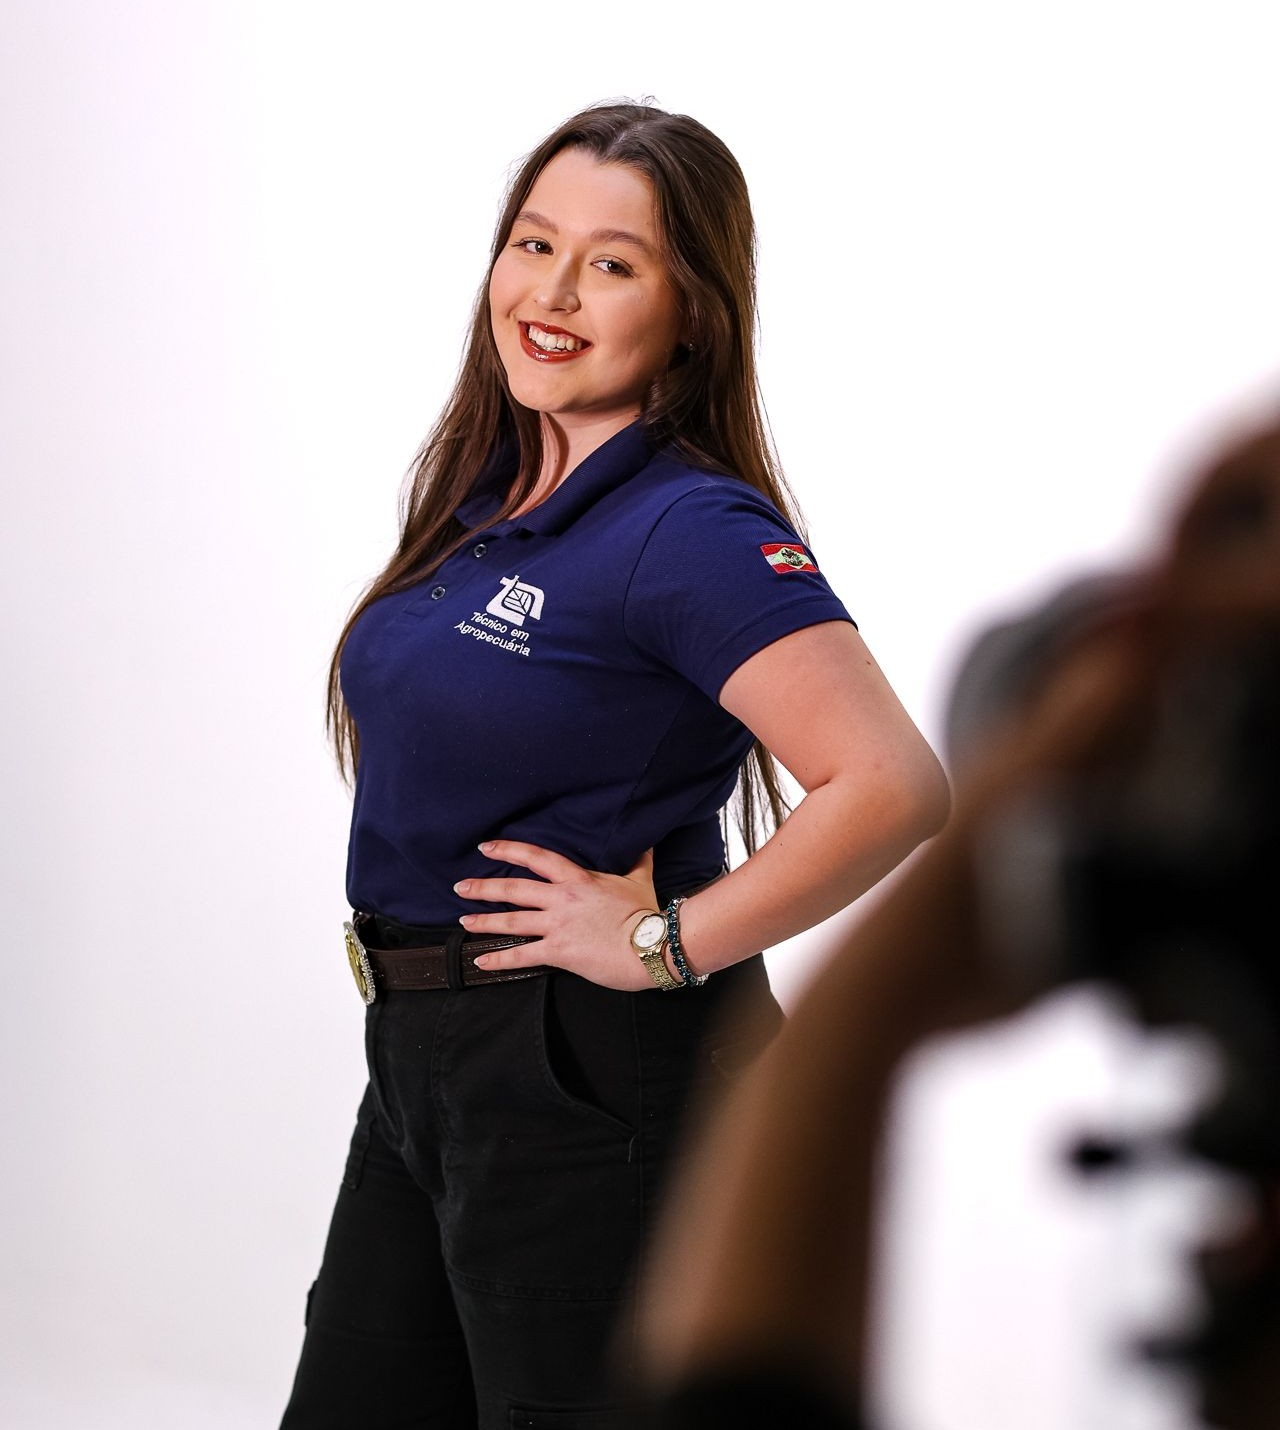
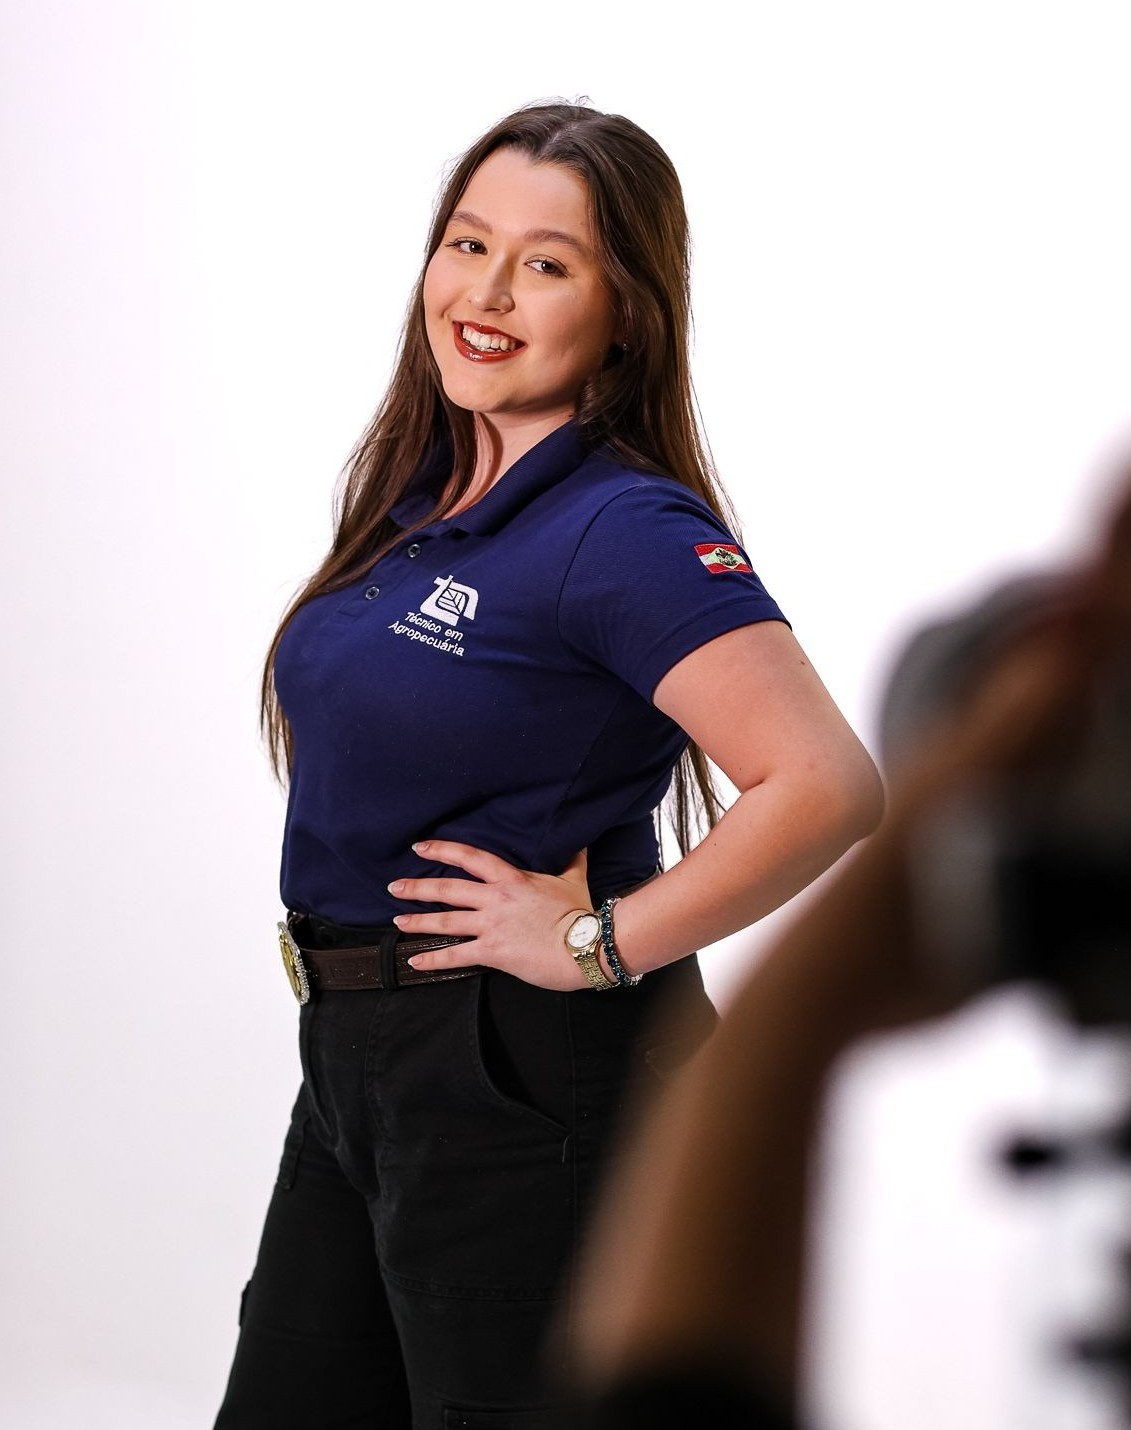
feat: arruma Pág. Sobre Nós

diff --git a/Pág. Sobre Nós/index.html b/Pág. Sobre Nós/index.html
@@ -133,8 +133,8 @@
                                 <p><span>3AGRO2</span></p>
                             </li>
                             <li>
-                                <img src="imagens/Kauane.jpeg" alt="Kauane 3AGRO2">
-                                <h3><span>Kauane</span></h3>
+                                <img src="imagens/Kauane.jpeg" alt="Kauanny 3AGRO2">
+                                <h3><span>Kauanny</span></h3>
                                 <p><span>3AGRO2</span></p>
                             </li>
                             <li>

diff --git a/Pág. Sobre Nós/CSS/style.css b/Pág. Sobre Nós/CSS/style.css
@@ -249,6 +249,11 @@ section.membros div.fundo div.membros1 ul li p{
     padding: 1vw;
 }
 
+section.membros div.fundo div.membros2 ul li img{
+    width: 250px;
+    height: 300px;
+}
+
 footer{
     background-color: #D83A32;
     text-align: center;
@@ -360,6 +365,11 @@ section.membros div.fundo div img{
 section.membros div.fundo div.texto p{
     padding: 2vw;
     width: 100%;
+}
+
+section.membros div.fundo div.membros2 ul li img{
+    width: 300px;
+    height: 150px;
 }
 
 footer div p{
